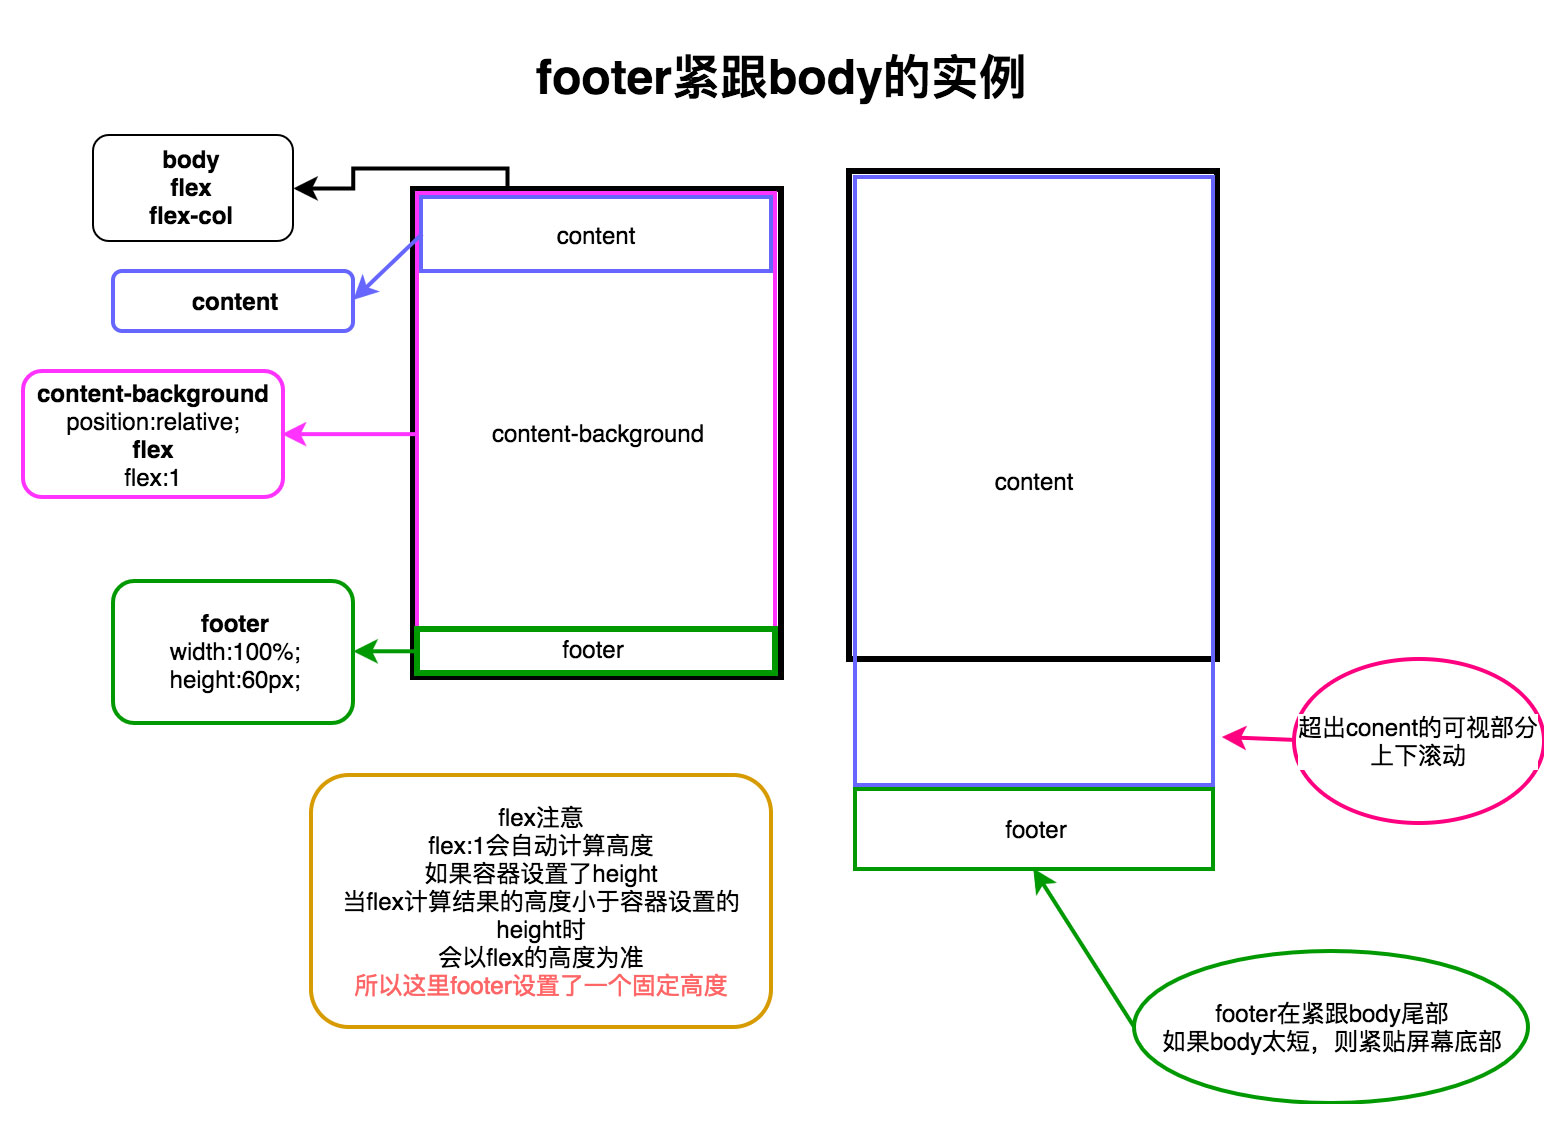
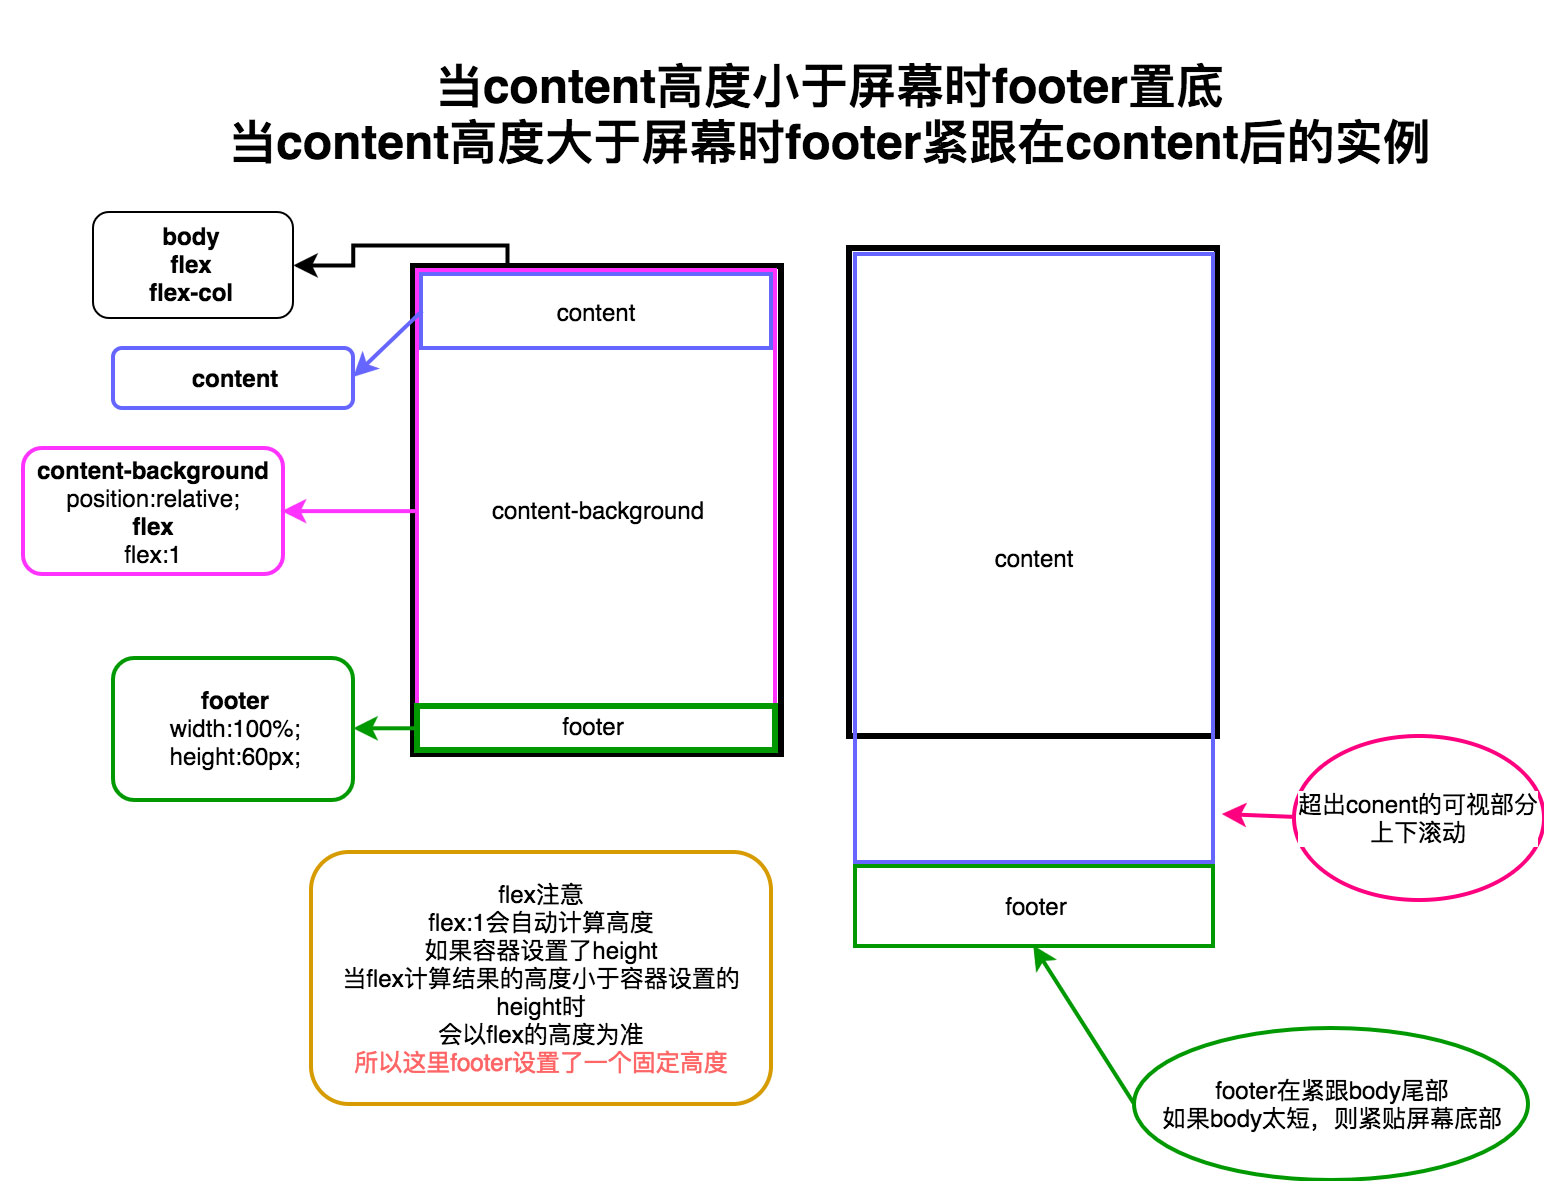
no message

diff --git a/LayoutDemo/layout2.html b/LayoutDemo/layout2.html
@@ -1,7 +1,7 @@
 <html class="screenAuto">
 <head>
 
-	<title>footer紧跟body的实例</title>
+	<title>当content高度小于屏幕时footer置底 当content高度大于屏幕时footer紧跟在content后的实例</title>
   <meta charset="utf-8">
 
 	<meta name="viewport" content="width=device-width,initial-scale=1,minimum-scale=1, maximum-scale=1,user-scalable=no">
